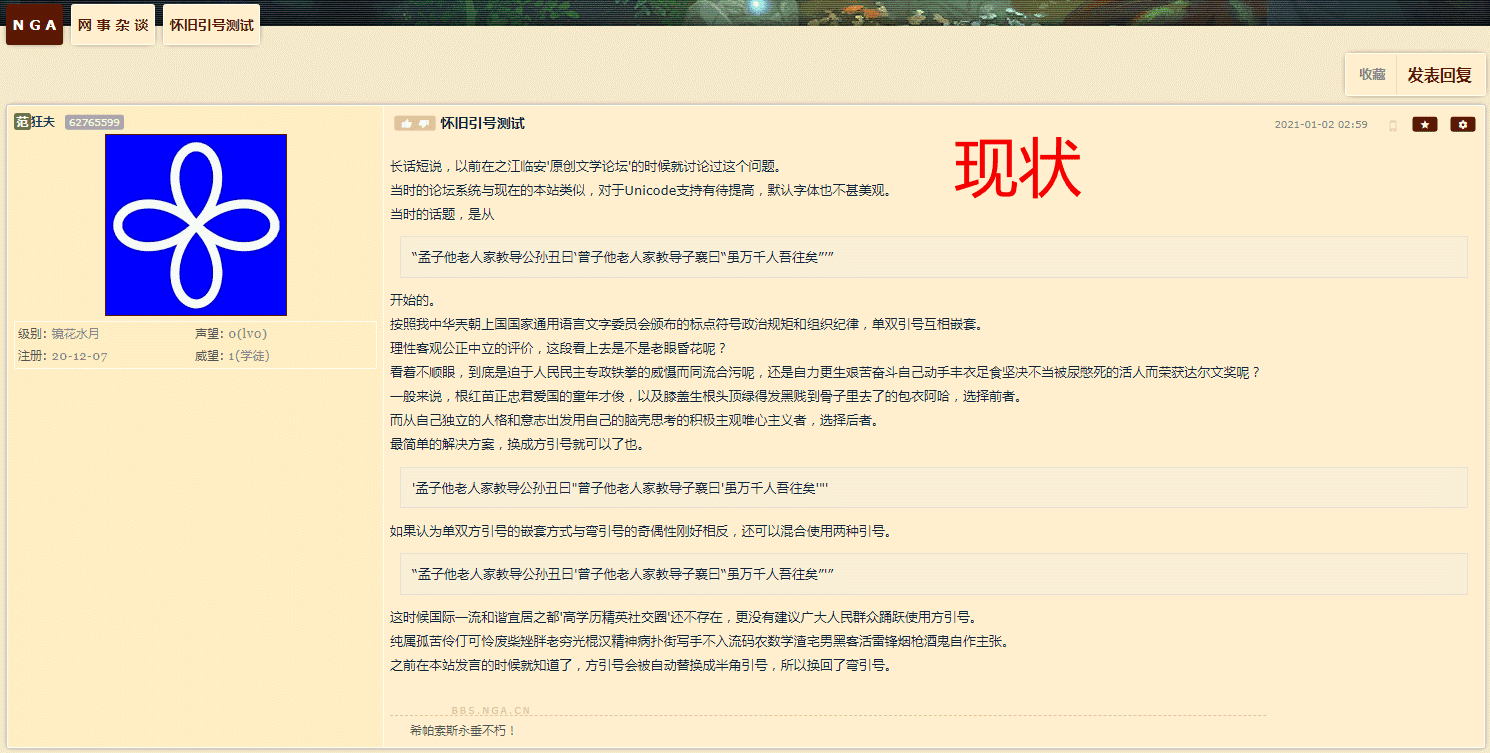
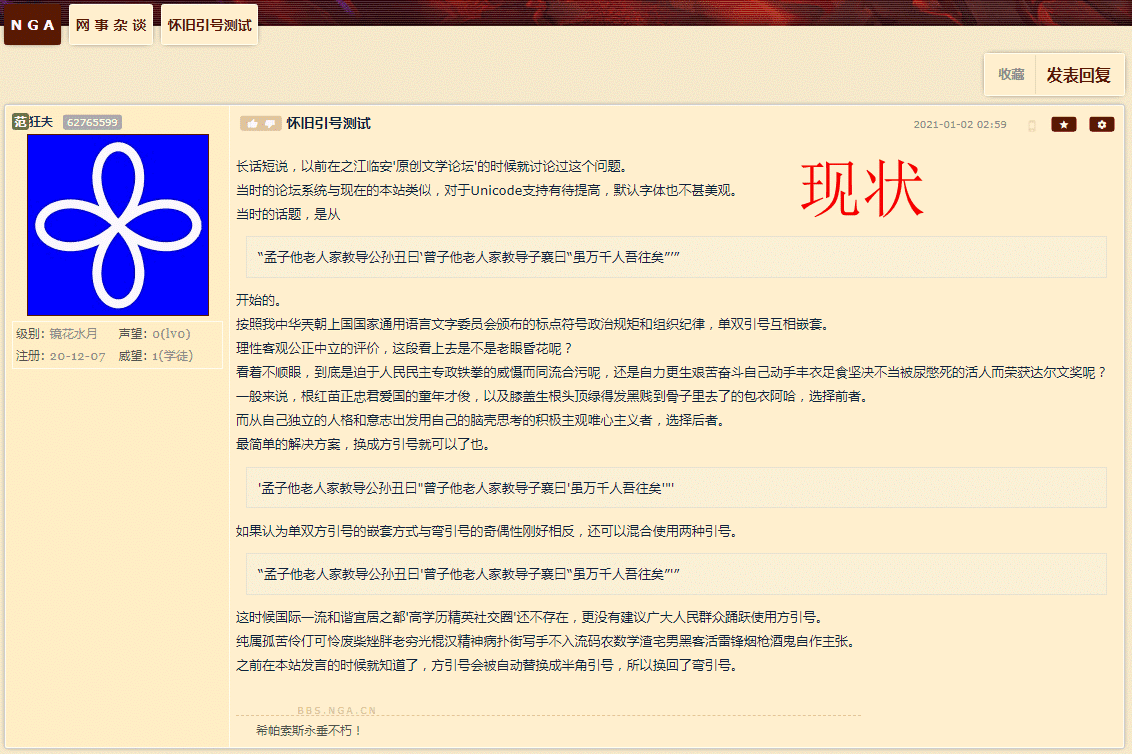
排版
Former-commit-id: ff2364a9b274c3a580a471fc211d2e9a9942679f

Changed region(s): [[0.0, 0.0, 1.0, 1.0]]

diff --git a/at_douban/diary/20210102-002.html b/at_douban/diary/20210102-002.html
@@ -44,7 +44,7 @@
             <img src="image/20210102-002_004.png" />
         </figure>
         <p>虽然还是由于字体原因不甚美观，但是好歹看着顺眼点了。</p>
-        <p>顺便，之前谈笑风生时提到过「新时代默认字体微软雅黑」当中，全角占位符「■」居然没有坐稳位置充沛生存空间，导致曾用名<abbr class="myself">铁■无敌范中出</abbr>显示效果欠佳，令我莫名惊诧。后来知道，此款字体的外包美工是北大方正，于是恍然大悟，北大荒仅仅吞并了医学院，而工艺美术学院被清政府吞并了，于是只剩美术废柴可用了也。</p>
+        <p>顺便，之前谈笑风生时提到过「新时代默认字体微软雅黑」当中，全角占位符「■」居然没有坐稳位置充沛生存空间，导致曾用名<abbr class="myself">铁■无敌范中出</abbr>显示效果欠佳，令我莫名惊诧。后来知道，此款字体的外包美工是北大方正，于是恍然大悟，北大荒仅仅吞并了医学院，而工艺美术学院被清政府吞并了，所以只剩美术废柴可用了也。</p>
     </main>
     <div class="signature">
         <p><span class="sign-time">2021.1.2</span></p>
